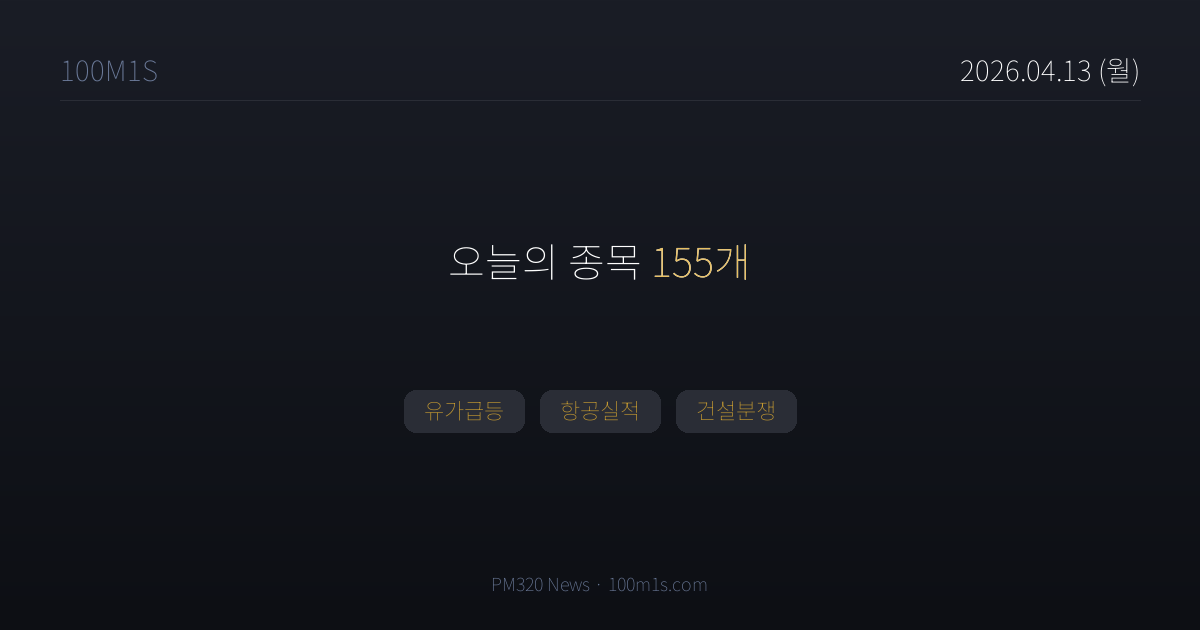
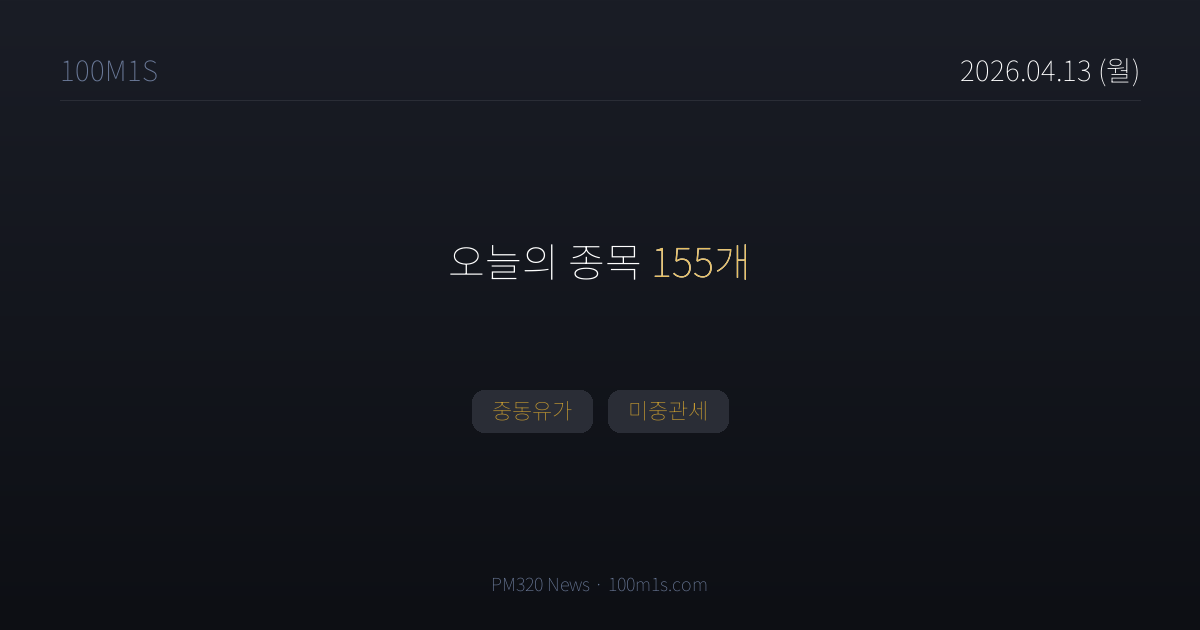
chore(news): 2026-04-13T22:58 pipeline

Changed region(s): [[0.3392, 0.6032, 0.6783, 0.6937]]

diff --git a/news/2026-04-13.html b/news/2026-04-13.html
@@ -4,7 +4,7 @@
 <meta charset="UTF-8">
 <title>4월 13일 (월) 뉴스 — 100M1S</title>
 <meta property="og:title" content="4월 13일 (월) · 종목 155개">
-<meta property="og:description" content="유가급등, 항공실적, 건설분쟁">
+<meta property="og:description" content="중동유가, 미중관세">
 <meta property="og:image" content="https://100m1s.com/og/2026-04-13.png">
 <meta property="og:image:width" content="1200">
 <meta property="og:image:height" content="630">
